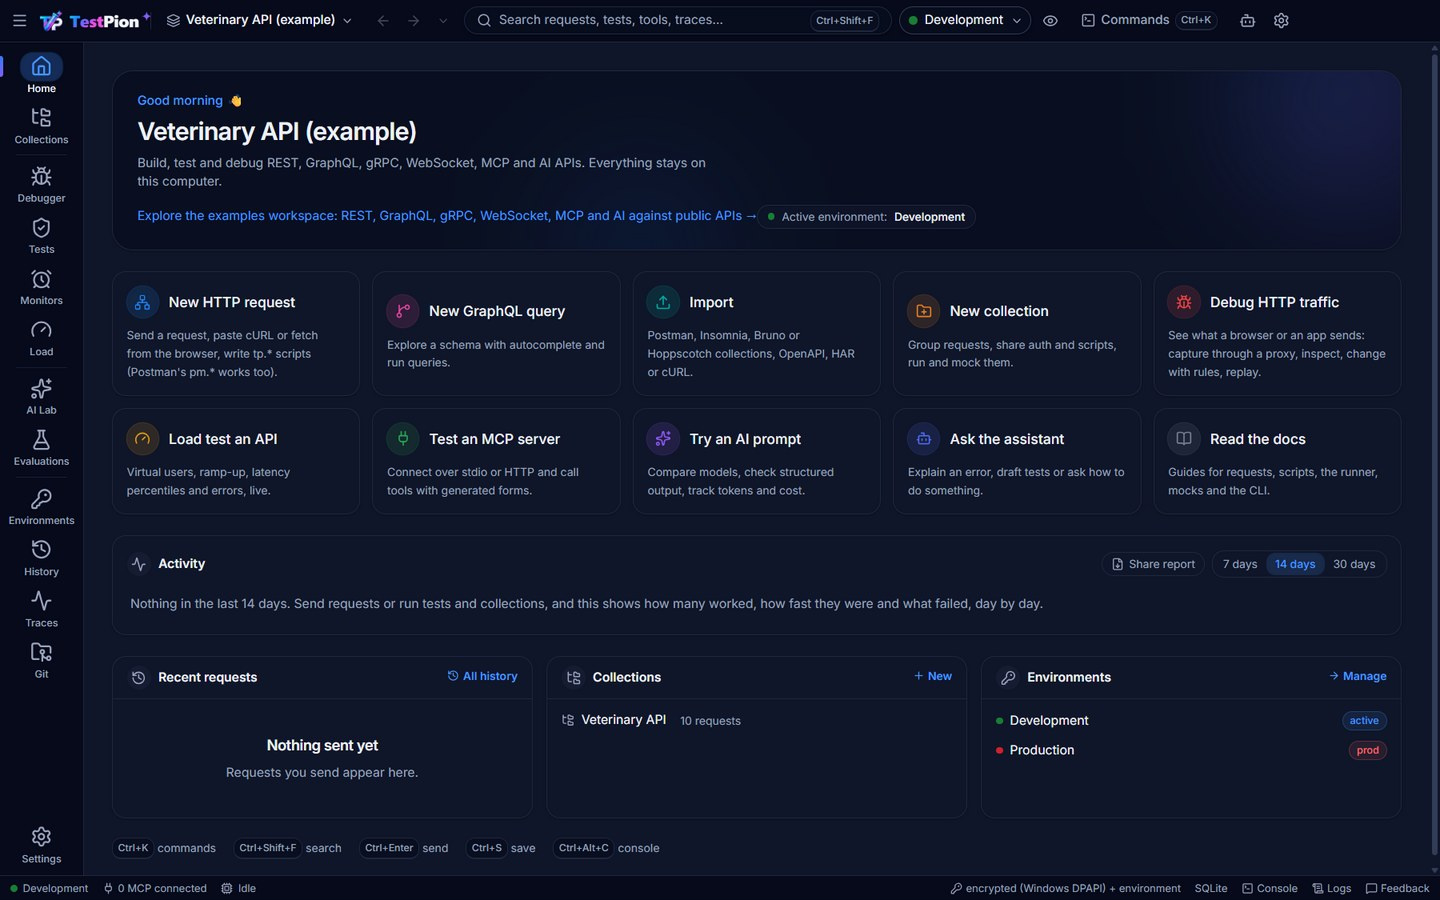
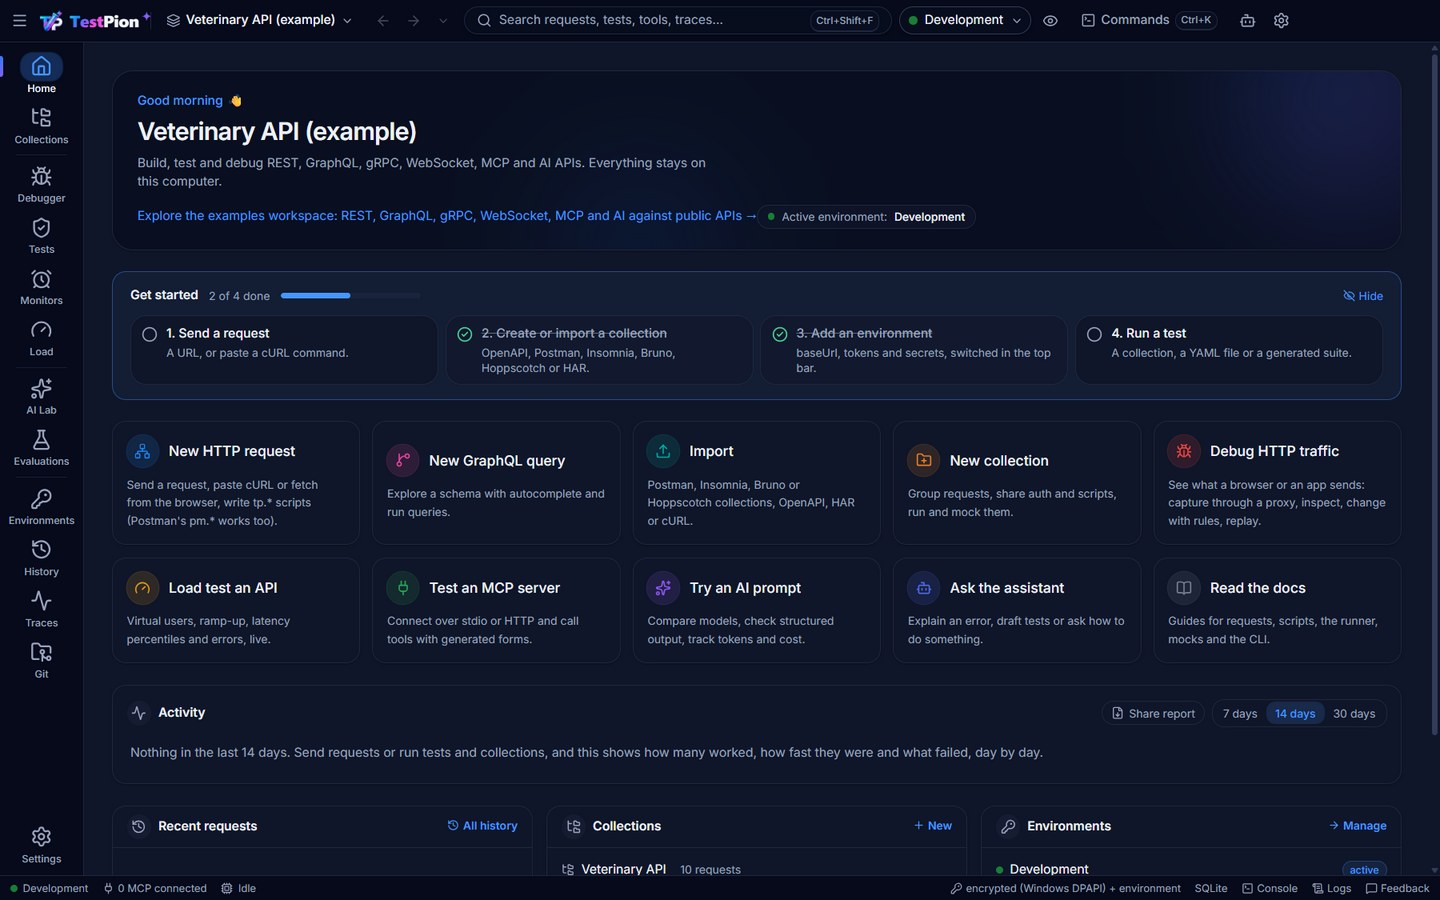
Release v0.45.0

diff --git a/packages/core/src/version.ts b/packages/core/src/version.ts
@@ -1,2 +1,2 @@
 /** TestPion's version (the engine, CLI and app are released together). */
-export const ENGINE_VERSION = '0.44.0';
+export const ENGINE_VERSION = '0.45.0';

diff --git a/CHANGELOG.md b/CHANGELOG.md
@@ -1,5 +1,30 @@
 # Changelog
 
+## 0.45.0 — 2026-10-07
+
+### AI testing, friendlier
+A provider whose API key has no value stops **before** anything is sent: *No API key for OpenAI*, why, and where to add it; **Add the key** opens the provider with its key field ready, and the providers list marks the ones that still need one. A provider's errors say what to do by status (a key not accepted, no access to the model, no credit left or rate-limited, an unknown model, a problem on their side). A price set for a model also prices its dated versions (`gpt-4o-mini` covers `gpt-4o-mini-2024-07-18`); **Set a price…** under an unpriced cost opens the price table with the row ready. The `first-token` (`ttft`) check limits the time to the first token.
+
+**RAG checks judged claim by claim.** With a `judge:`, `groundedness` (alias `faithfulness`), `context-precision` and `context-recall` no longer ask the model for one number: the judge splits the answer, the reference or the documents into items and gives each a verdict with its evidence; the score is computed from the verdicts, and the result lists what did not hold first (claims not supported, documents not useful, facts missing). New: `answer-correctness` (the answer's facts against the reference, F1) and `context-entity-recall` (the reference's names, numbers and dates found in the context; no model).
+
+### Results a person reviews
+The results of a run (tests and evaluations) open their first failure by themselves; filter chips count **Failed**, **Passed**, **Skipped** and **To review**; each row shows its lowest check score; ↑ ↓ (or J K) move through the results. **👍 / 👎 and a note** on any result record your verdict beside the run (`runs/<id>/reviews.json`): a 👎 on a passing result says the checks missed something, a 👍 on a failing one that a check is too strict. `testpion history review`, and the `run_reviews` / `review_result` tools for agents (an agent's review is marked as such). In the Playground, **Add to dataset** keeps the inputs and the answer (as `expected`) as an evaluation case in a JSONL dataset (`testpion datasets --add`, `add_dataset_row`). The model comparison marks the fastest and the cheapest, says under a picker when a provider still needs a key, and shows a failed model's error once with **Add the key**.
+
+### An integration suite from an API definition or a collection
+**Generate tests ▸ Integration flows** (a definition's Preview), **Export ▸ Integration flows** (a collection), `testpion integration-suite <spec | collection>` and the `generate_flows` tool write one flow per resource the API creates: create it, read it back, update it, see it listed, delete it and see it gone, each step depending on the one before, the created id flowing between them, names given a random part so the flow runs again; the login operation first, saving `{{accessToken}}`; plus `tests/<api>-integration.suite.yaml`. The result names the environment variables to set.
+
+### For AI agents
+`testpion mcp-server --profile minimal` lists only the tools of the common jobs (for agents that load every listed tool into their context); the new **`search_tools`** finds a tool by what you want to do, and any tool it names can be called. `testpion agent-info` prints, as one JSON object, what an agent needs here: the workspace, the commands and their exit codes, the environment variables, the MCP setup and the docs. `lint-tests` takes paths the way `testpion test` does.
+
+### First steps and empty views
+Home shows a **Get started** checklist (send a request, create or import a collection, add an environment, run a test), ticked from what the workspace holds and gone once done. Collections, Traces and History say what they are for and offer the first action when empty.
+
+### HTTP Debugger: choose what to capture
+The port box is gone from the header (**Capture ▸ Proxy port…** keeps it). **Capture** asks what to watch — **a browser** (Chrome, Edge, Firefox or Brave through the proxy; only that window), **a terminal** (only what runs in it), **a phone**, or **everything on this computer** (the system proxy, named as such, restored on stop) — and starts the proxy itself; **Start capturing** alone starts it for a program you point at it yourself. Nothing is captured until you choose, and the view says so. The workbench is calmer: the dock's bottom tab strip is gone (the rail switches panels, and can show each tool's name), the HTTPS notice appears only once tunnels show up and the **HTTPS** menu's lock says the state, the filters fit one row with the search box first, the number columns say their unit, the Summary leaves out what it does not know, and the request / response pane is a one-line hint until a row is picked.
+
+### Under the hood
+The RAG heuristics tokenize the context once per check (not once per sentence), compiled schemas are cached by object, the mock provider compiles each rule once, a dataset append never reads the file, and the Evaluations, AI Lab, assistant and results views stop re-rendering on every keystroke or streamed token. Dataset helpers, the code-block extractor and the "needs a key" rule live in one place each.
+
 ## 0.44.0 — 2026-10-07
 
 ### HTTP Debugger
